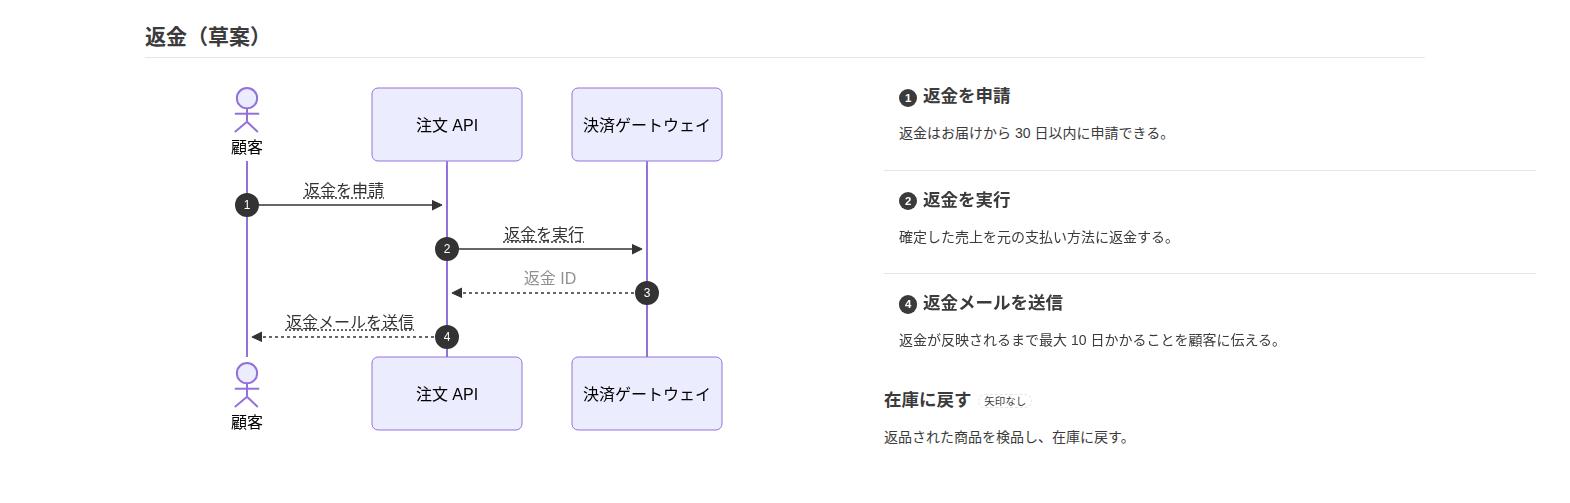
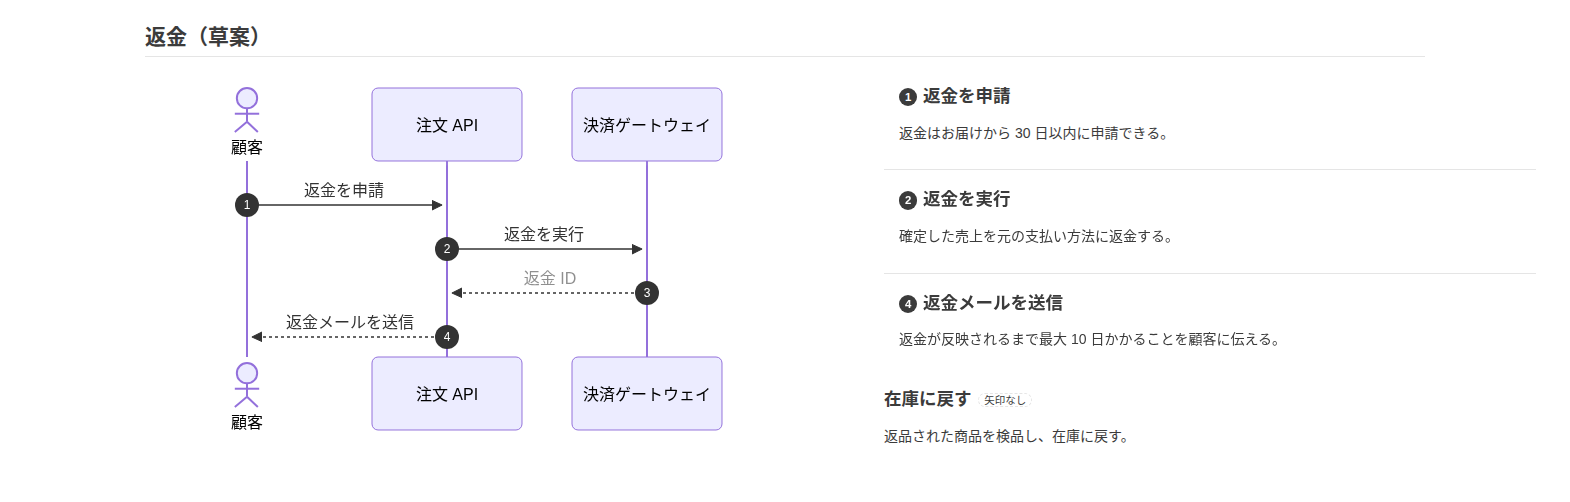
シーケンス図の矢印のラベルと @goto のノートの点線の下線をなくす (MDDV-63)

diff --git a/site/ja/index.html b/site/ja/index.html
@@ -106,7 +106,7 @@ ID をキーにユーザーを 1 件取得する。
             <h3>書き漏れが分かる</h3>
             <p>見出しのない矢印は薄く表示し、矢印のない見出しには印を付けます。VS Code では問題パネルにも表示し、クイックフィックスで直せます。</p>
           </div>
-          <div class="frame"><img src="../images/screenshot-link-checks.ja.png" width="1570" height="503" loading="lazy" alt="見出しのない矢印は薄く表示され、矢印のない見出しには「矢印なし」の印が付く"></div>
+          <div class="frame"><img src="../images/screenshot-link-checks.ja.png" width="1570" height="502" loading="lazy" alt="見出しのない矢印は薄く表示され、矢印のない見出しには「矢印なし」の印が付く"></div>
         </div>
 
         <div class="feature">

diff --git a/site/index.html b/site/index.html
@@ -106,7 +106,7 @@ Issue a JWT valid for one hour.</code></pre>
             <h3>Find missing steps</h3>
             <p>Arrows without a heading are faded, and headings without an arrow are marked. In VS Code they are also reported in the Problems panel, with quick fixes.</p>
           </div>
-          <div class="frame"><img src="images/screenshot-link-checks.png" width="1570" height="503" loading="lazy" alt="An arrow without a heading is faded, and a heading without an arrow gets a &quot;no arrow&quot; mark"></div>
+          <div class="frame"><img src="images/screenshot-link-checks.png" width="1570" height="502" loading="lazy" alt="An arrow without a heading is faded, and a heading without an arrow gets a &quot;no arrow&quot; mark"></div>
         </div>
 
         <div class="feature">

diff --git a/webview/preview.css b/webview/preview.css
@@ -759,8 +759,6 @@ html:has(> body[data-seqnotes-theme="dark"]:is(.vscode-light, .vscode-high-contr
   pointer-events: stroke;
 }
 
-.messageText.seqnotes-linked { text-decoration: underline dotted; }
-
 .messageText.seqnotes-active {
   fill: var(--seqnotes-accent) !important;
   font-weight: bold;
@@ -791,7 +789,6 @@ text.seqnotes-anchor, text.seqnotes-anchor tspan {
   stroke: var(--seqnotes-accent) !important;
   stroke-dasharray: 5 3;
 }
-.seqnotes-goto :is(text, tspan) { text-decoration: underline dotted; }
 .seqnotes-goto.seqnotes-jump-hover > rect,
 .seqnotes-note.seqnotes-anchor.seqnotes-jump-hover > rect { stroke-width: 3px !important; }
 .seqnotes-goto.seqnotes-jump-hover :is(text, tspan) { fill: var(--seqnotes-accent) !important; }

diff --git a/CHANGELOG.md b/CHANGELOG.md
@@ -5,6 +5,7 @@ This changelog covers the extension, the command line and the embeddable viewer 
 ## Unreleased
 
 - Long labels of the arrows of the sequence diagrams are now broken into lines at 40 characters by default (it was 30), a full-width one counting as 2. The width is set with `mdDesignDoc.messageWrapWidth` (`--message-wrap-width` of the command line, `messageWrapWidth` of the embeddable viewer).
+- The labels of the arrows of the sequence diagrams that are linked to steps, and the text of the notes that jump with `%% @goto`, are no longer underlined with dots, which made them hard to read.
 
 ## 1.5.2
 

diff --git a/desktop/CHANGELOG.md b/desktop/CHANGELOG.md
@@ -5,6 +5,7 @@ The desktop app has its own version, apart from the extension and the command li
 ## Unreleased
 
 - Long labels of the arrows of the sequence diagrams are now broken into lines at 40 characters by default (it was 30), a full-width one counting as 2. The width is set with **Arrow Label Width** of the settings.
+- The labels of the arrows of the sequence diagrams that are linked to steps, and the text of the notes that jump with `%% @goto`, are no longer underlined with dots, which made them hard to read.
 
 ## 0.4.2
 
